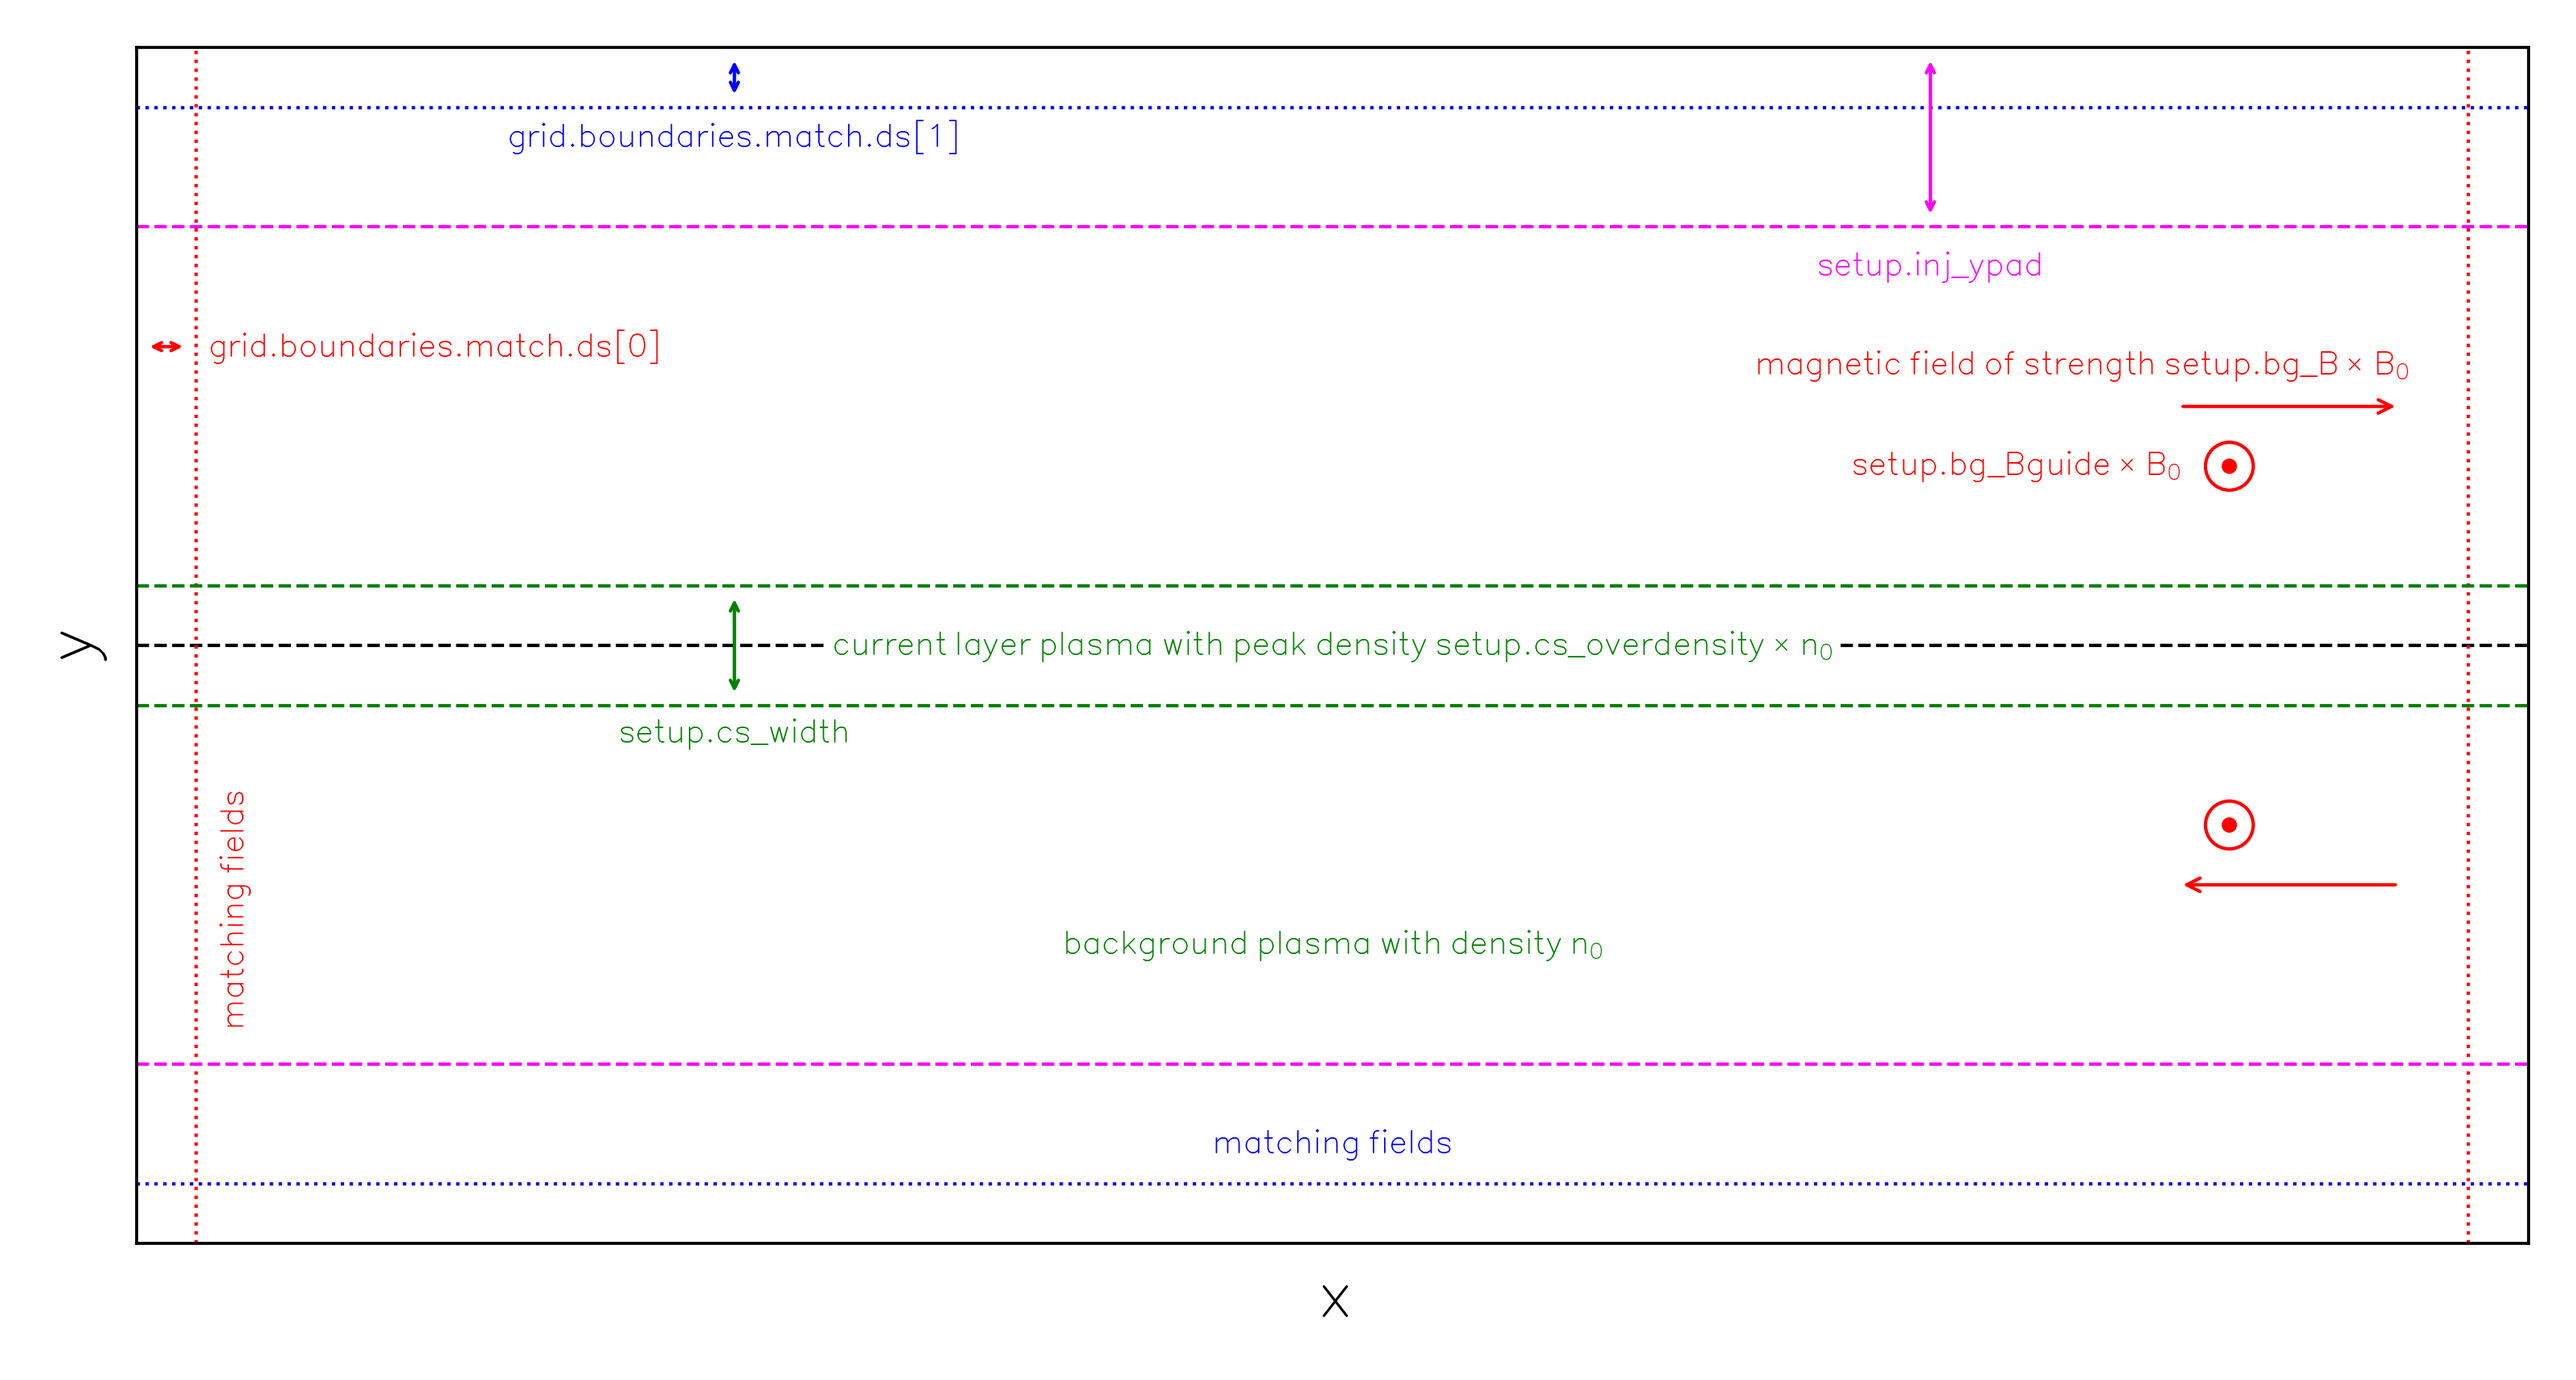
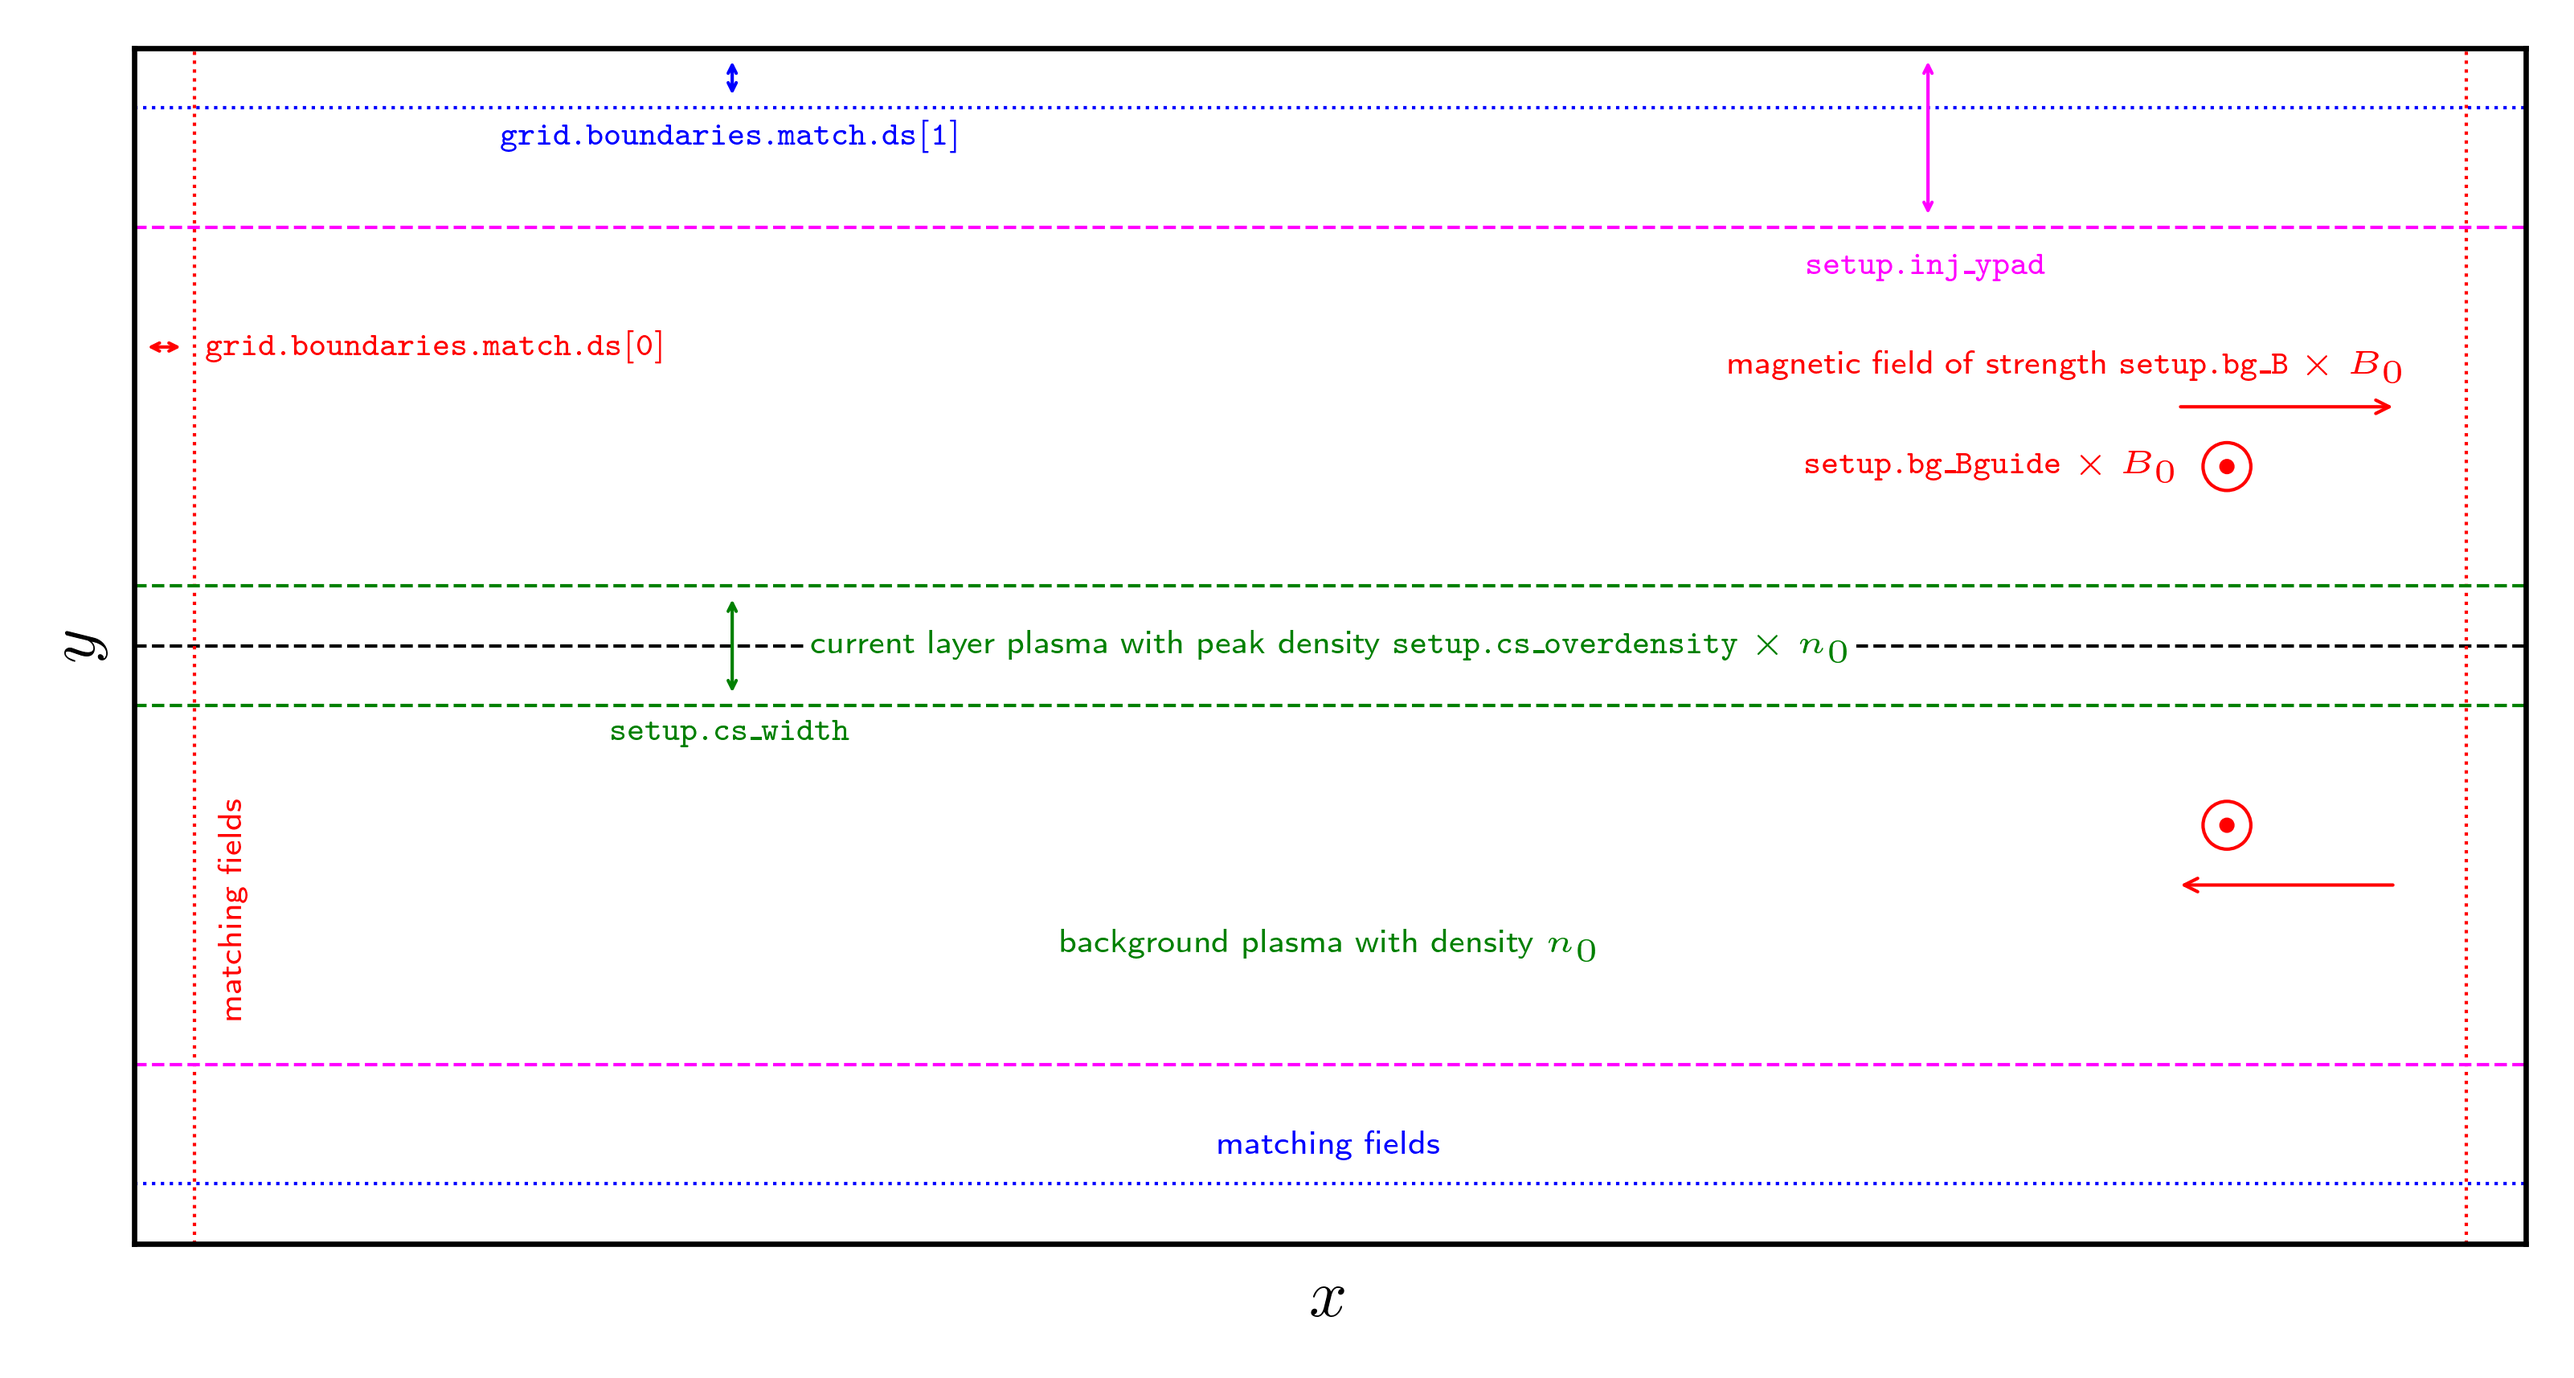
sketch for rec+mag

diff --git a/pgens/magnetosphere/sketch.py b/pgens/magnetosphere/sketch.py
@@ -1,0 +1,163 @@
+import matplotlib.pyplot as plt
+import matplotlib.patches as mpatches
+import myplotlib
+import numpy as np
+
+plt.style.use("latex")
+
+fig = plt.figure(dpi=600)
+ax = fig.add_subplot(111)
+
+r0 = 0.15
+
+ax.plot([0, 0], [r0, 1], c="k", lw=0.5)
+ax.plot([0, 0], [-r0, -1], c="k", lw=0.5)
+ax.add_patch(
+    mpatches.Arc((0, 0), 2, 2, angle=0, theta1=-90, theta2=90, color="k", lw=0.5)
+)
+ax.add_patch(
+    mpatches.Arc(
+        (0, 0), 2 * r0, 2 * r0, angle=0, theta1=-90, theta2=90, color="k", lw=0.5
+    )
+)
+ax.add_patch(
+    mpatches.Arc(
+        (0, 0),
+        2 - 0.25,
+        2 - 0.25,
+        angle=0,
+        theta1=-90,
+        theta2=90,
+        color="b",
+        lw=0.5,
+        ls="--",
+    )
+)
+ax.add_patch(
+    mpatches.Arc(
+        (0, 0),
+        2 - 0.1,
+        2 - 0.1,
+        angle=0,
+        theta1=-90,
+        theta2=90,
+        color="r",
+        lw=0.5,
+        ls="--",
+    )
+)
+ax.text(
+    1.05 / np.sqrt(2), 1.05 / np.sqrt(2), "absorbing particle boundaries", c="r", size=5
+)
+ax.text(
+    1.05 / np.sqrt(2),
+    1.05 / np.sqrt(2) - 0.04,
+    r"$\mathtt{grid.boundaries.absorb.ds}$",
+    c="r",
+    size=5,
+)
+ax.annotate(
+    "",
+    xy=(1.02 / np.sqrt(2), 1.02 / np.sqrt(2)),
+    xytext=(0.93 / np.sqrt(2), 0.93 / np.sqrt(2)),
+    arrowprops=dict(arrowstyle="<->", lw=0.5, color="r"),
+    size=5,
+)
+ax.annotate(
+    "",
+    xy=(1.01 * np.cos(np.pi / 6), 1.01 * np.sin(np.pi / 6)),
+    xytext=(0.87 * np.cos(np.pi / 6), 0.87 * np.sin(np.pi / 6)),
+    arrowprops=dict(arrowstyle="<->", lw=0.5, color="b"),
+    size=5,
+)
+ax.text(
+    1.05 * np.cos(np.pi / 6),
+    1.05 * np.sin(np.pi / 6),
+    "matching field boundaries",
+    c="b",
+    size=5,
+)
+ax.text(
+    1.05 * np.cos(np.pi / 6),
+    1.05 * np.sin(np.pi / 6) - 0.04,
+    r"$\mathtt{grid.boundaries.match.ds}$",
+    c="b",
+    size=5,
+)
+ax.add_patch(
+    mpatches.Arc(
+        (0, 0),
+        0.4,
+        0.4,
+        angle=0,
+        theta1=-90,
+        theta2=90,
+        color="g",
+        lw=0.5,
+        ls=":",
+    )
+)
+ax.add_patch(
+    mpatches.Arc(
+        (0, 0),
+        0.5,
+        0.5,
+        angle=0,
+        theta1=-90,
+        theta2=90,
+        color="g",
+        lw=0.5,
+        ls=":",
+    )
+)
+ax.annotate(
+    "",
+    xy=(0.27 / np.sqrt(2), 0.27 / np.sqrt(2)),
+    xytext=(0.18 / np.sqrt(2), 0.18 / np.sqrt(2)),
+    arrowprops=dict(arrowstyle="<->", lw=0.5, color="g"),
+    size=5,
+)
+ax.text(
+    0.27 / np.sqrt(2),
+    0.27 / np.sqrt(2) + 0.04,
+    "particle atmosphere injection",
+    c="g",
+    size=5,
+)
+ax.text(
+    0.27 / np.sqrt(2),
+    0.27 / np.sqrt(2),
+    r"$\mathtt{grid.boundaries.atmosphere.height}$",
+    c="g",
+    size=5,
+)
+ax.annotate(
+    "",
+    xy=(0.13 / np.sqrt(2), -0.13 / np.sqrt(2)),
+    xytext=(0.22 / np.sqrt(2), -0.22 / np.sqrt(2)),
+    arrowprops=dict(arrowstyle="<->", lw=0.5, color="b"),
+    size=5,
+)
+ax.text(
+    0.23 / np.sqrt(2),
+    -0.23 / np.sqrt(2),
+    "buffer zone for resetting fields",
+    c="b",
+    size=5,
+)
+ax.text(
+    0.23 / np.sqrt(2),
+    -0.23 / np.sqrt(2)-0.04,
+    r"size in cells = \# of filters",
+    c="b",
+    size=5,
+)
+ax.set(
+    xlim=(-0.05, 1.05),
+    ylim=(-1.05, 1.05),
+    aspect=1,
+    xticks=[],
+    yticks=[],
+    frame_on=False,
+)
+plt.savefig("sketch.png", bbox_inches="tight")

diff --git a/pgens/shock/pgen.hpp b/pgens/shock/pgen.hpp
@@ -136,7 +136,7 @@ namespace user {
       }
     }
 
-    inline void InitPrtls(Domain<S, M>& local_domain) {
+    inline void InitPrtls(Domain<S, M>& domain) {
 
       /*
        *  Plasma setup as partially filled box
@@ -173,14 +173,13 @@ namespace user {
       // species #2 -> protons
 
       // energy distribution of the particles
-      const auto temperatures = std::make_pair<real_t, real_t>(
-        temperature,
-        temperature_ratio * temperature);
-      const auto drifts = std::make_pair<std::vector<real_t>, std::vector<real_t>>(
-        { -drift_ux, ZERO, ZERO },
-        { -drift_ux, ZERO, ZERO });
+      const auto temperatures = std::make_pair(temperature,
+                                               temperature_ratio * temperature);
+      const auto drifts       = std::make_pair(
+        std::vector<real_t> { -drift_ux, ZERO, ZERO },
+        std::vector<real_t> { -drift_ux, ZERO, ZERO });
       arch::InjectUniformMaxwellians<S, M>(params,
-                                           local_domain,
+                                           domain,
                                            ONE,
                                            temperatures,
                                            { 1, 2 },
@@ -307,14 +306,13 @@ namespace user {
       }
 
       // same maxwell distribution as above
-      const auto temperatures = std::make_pair<real_t, real_t>(
-        temperature,
-        temperature_ratio * temperature);
-      const auto drifts = std::make_pair<std::vector<real_t>, std::vector<real_t>>(
-        { -drift_ux, ZERO, ZERO },
-        { -drift_ux, ZERO, ZERO });
+      const auto temperatures = std::make_pair(temperature,
+                                               temperature_ratio * temperature);
+      const auto drifts       = std::make_pair(
+        std::vector<real_t> { -drift_ux, ZERO, ZERO },
+        std::vector<real_t> { -drift_ux, ZERO, ZERO });
       arch::InjectUniformMaxwellians<S, M>(params,
-                                           local_domain,
+                                           domain,
                                            ONE,
                                            temperatures,
                                            { 1, 2 },

diff --git a/pgens/reconnection/sketch.py b/pgens/reconnection/sketch.py
@@ -2,7 +2,7 @@ import matplotlib.pyplot as plt
 import matplotlib.patches as mpatches
 import myplotlib
 
-plt.style.use("hershey.light")
+plt.style.use("latex")
 
 fig = plt.figure(dpi=600)
 ax = fig.add_subplot(111)
@@ -42,7 +42,7 @@ ax.annotate(
 ax.text(
     -0.94,
     0.25,
-    "grid.boundaries.match.ds[0]",
+    r"$\mathtt{grid.boundaries.match.ds[0]}$",
     color="red",
     size=5,
     ha="left",
@@ -51,7 +51,7 @@ ax.text(
 ax.text(
     -0.5,
     0.44,
-    "grid.boundaries.match.ds[1]",
+    r"$\mathtt{grid.boundaries.match.ds[1]}$",
     color="blue",
     size=5,
     ha="center",
@@ -74,7 +74,7 @@ ax.annotate(
 ax.text(
     -0.5,
     -0.06,
-    "setup.cs_width",
+    r"$\mathtt{setup.cs\_width}$",
     color="g",
     size=5,
     ha="center",
@@ -83,7 +83,7 @@ ax.text(
 ax.text(
     0.5,
     0.33,
-    "setup.inj_ypad",
+    r"$\mathtt{setup.inj\_ypad}$",
     color="magenta",
     size=5,
     ha="center",
@@ -92,7 +92,7 @@ ax.text(
 ax.text(
     0.0,
     0.0,
-    "current layer plasma with peak density setup.cs_overdensity $\\times ~n_0$",
+    r"current layer plasma with peak density $\mathtt{setup.cs\_overdensity} \times n_0$",
     color="green",
     size=5,
     ha="center",
@@ -125,7 +125,7 @@ ax.annotate(
 ax.text(
     0.9,
     0.22,
-    "magnetic field of strength setup.bg_B $\\times ~B_0$",
+    r"magnetic field of strength $\mathtt{setup.bg\_B}\times B_0$",
     color="red",
     size=5,
     ha="right",
@@ -158,7 +158,7 @@ ax.add_patch(mpatches.Circle((0.75, -0.15), 0.005, color="red", fill=True, lw=0.
 ax.text(
     0.71,
     0.15,
-    "setup.bg_Bguide $\\times ~B_0$",
+    r"$\mathtt{setup.bg\_Bguide} \times B_0$",
     color="r",
     size=5,
     ha="right",
